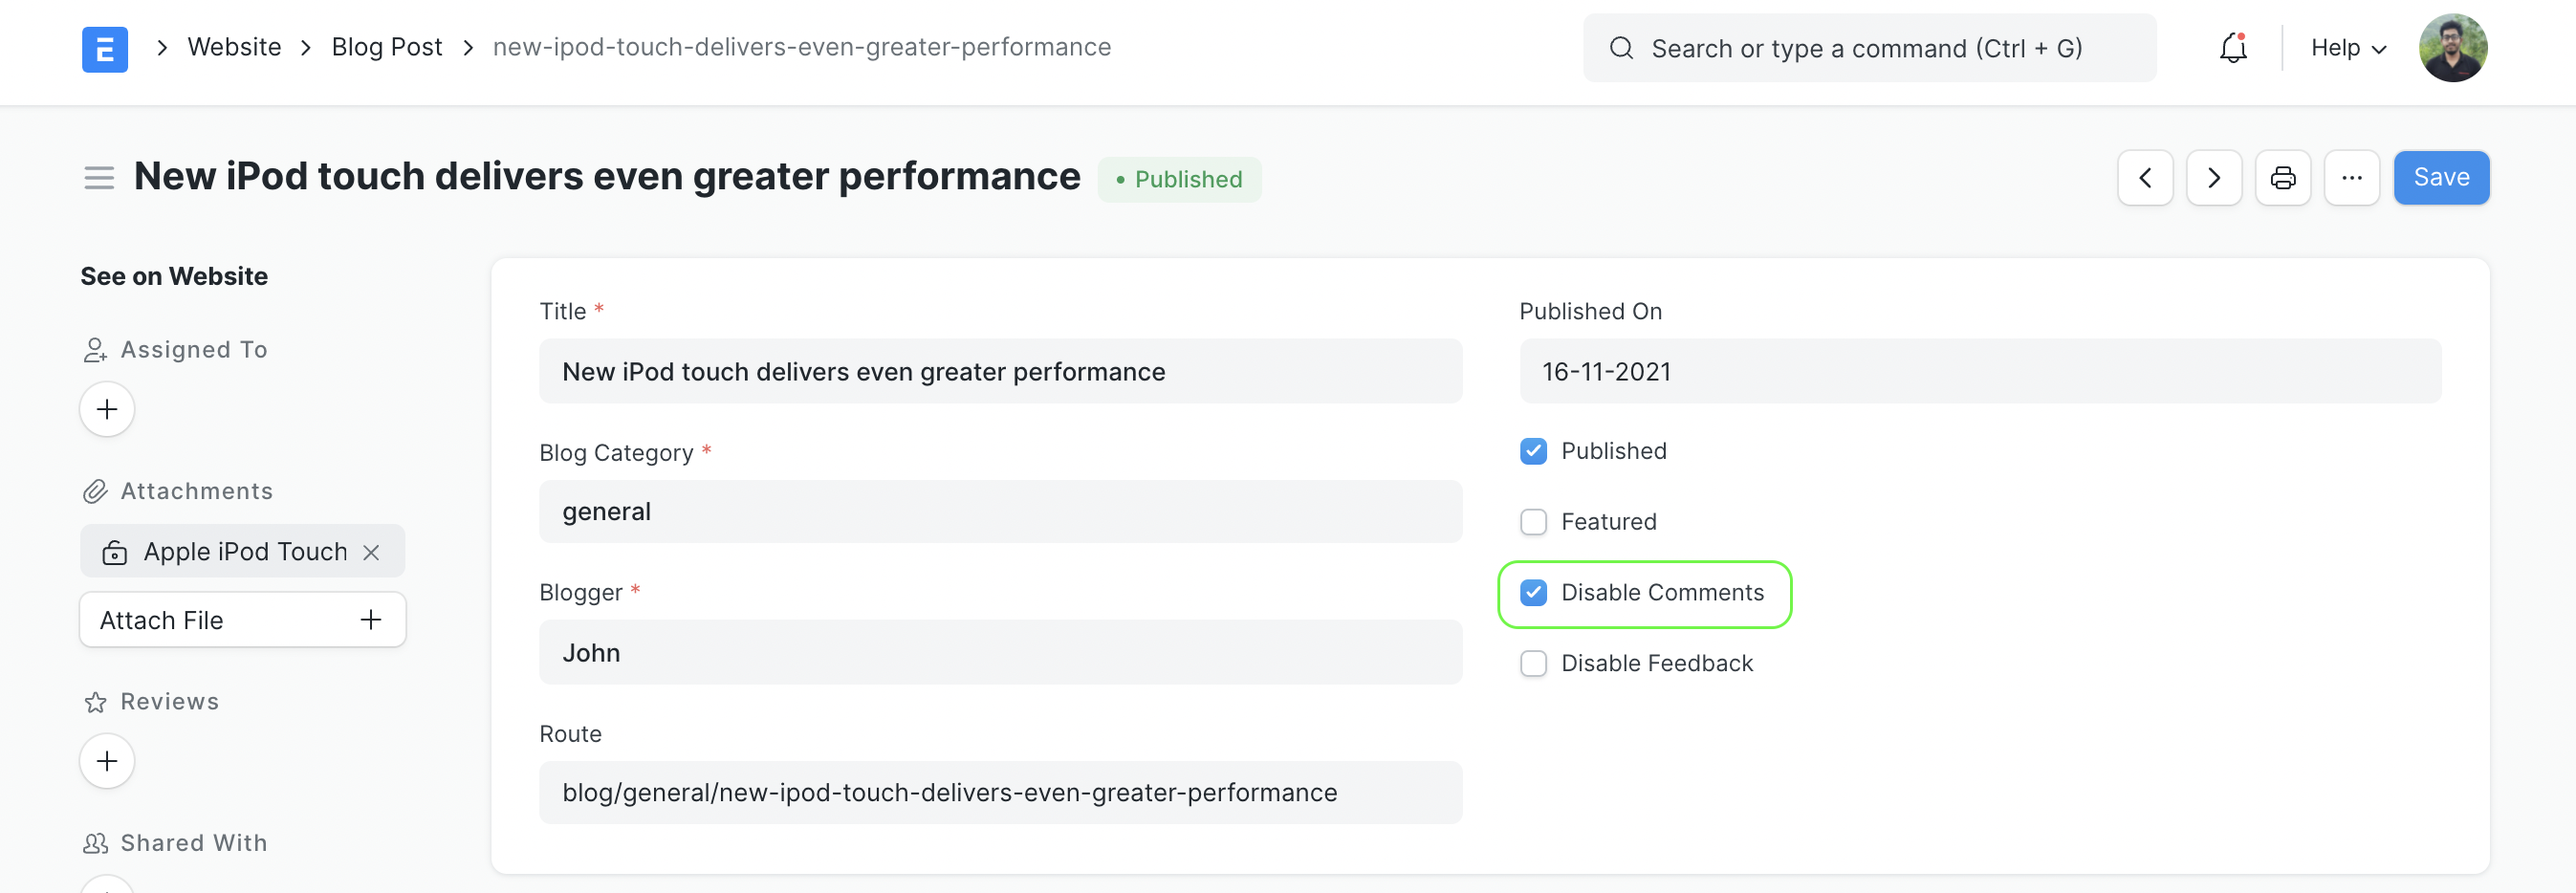
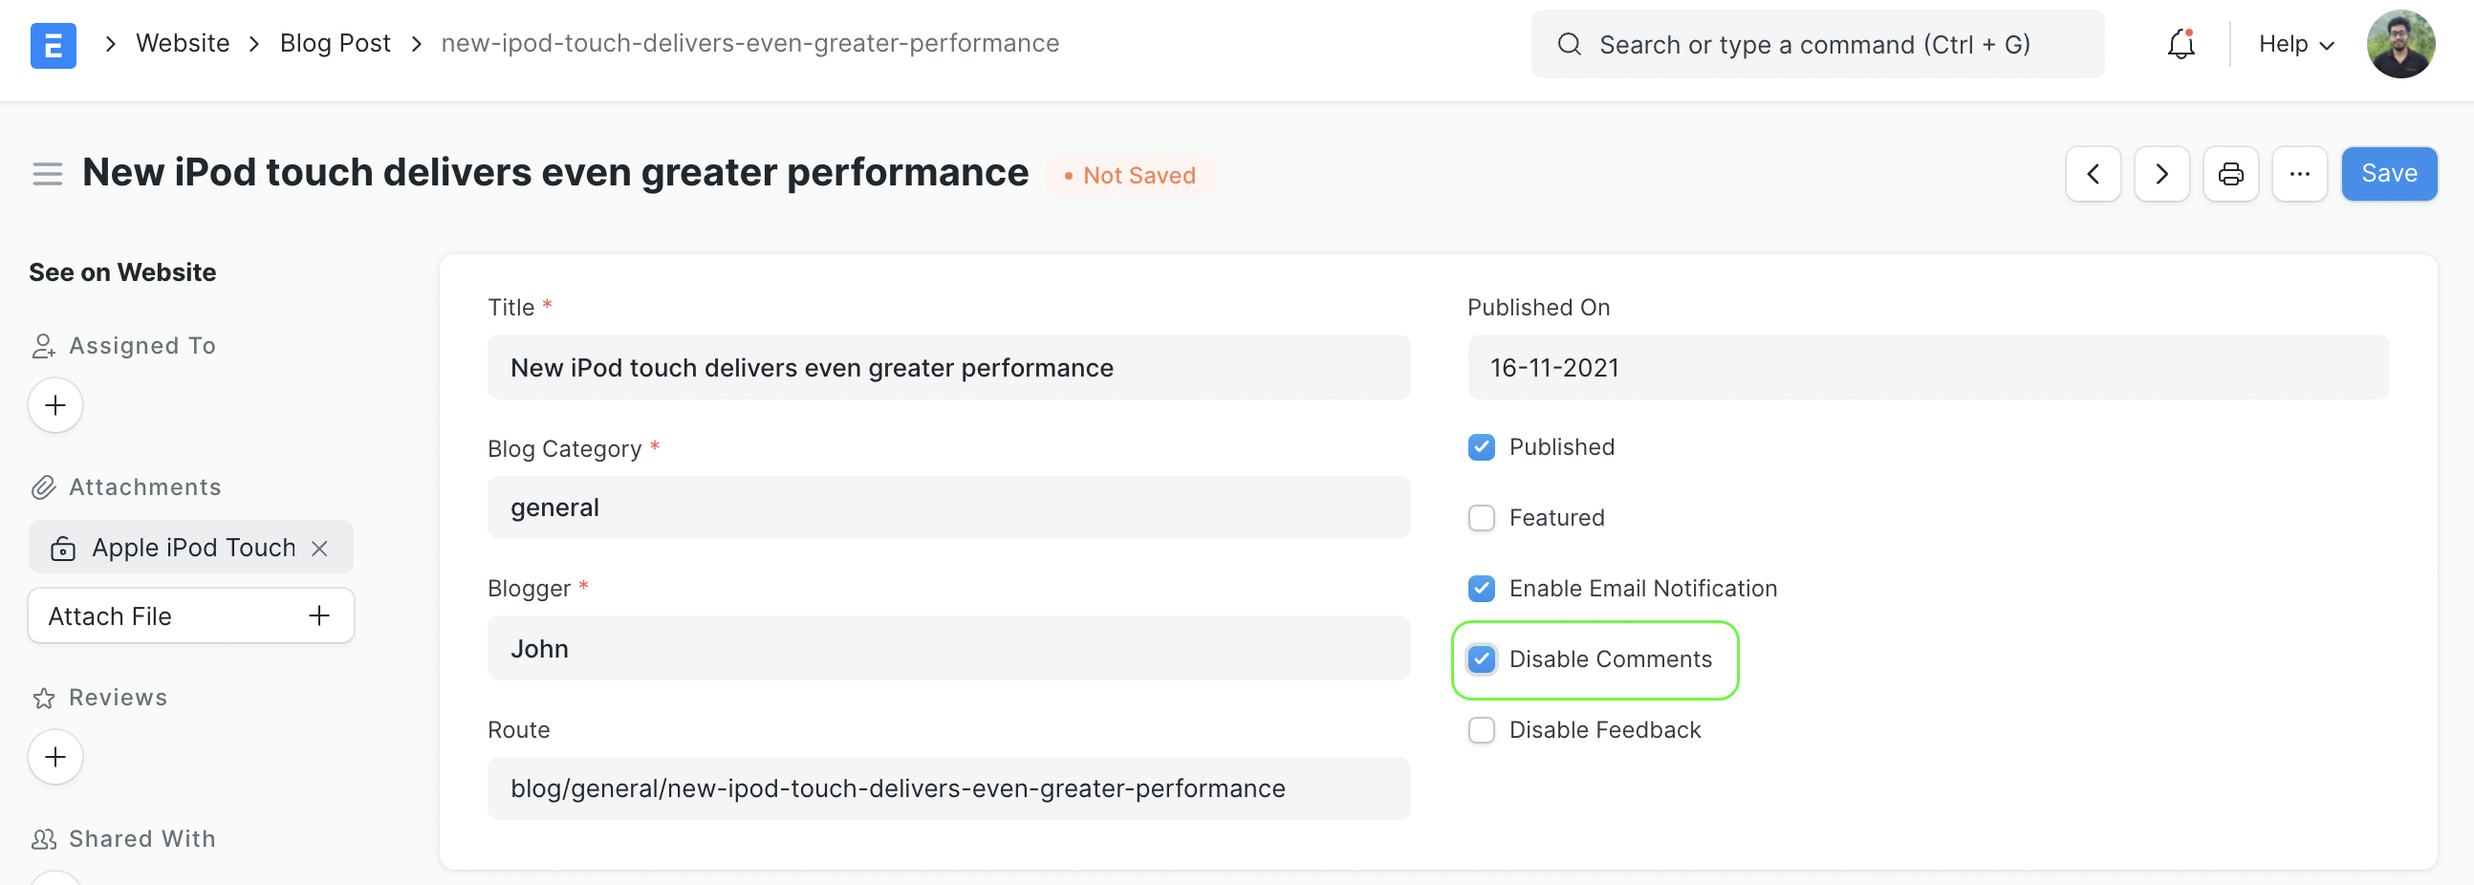
docs: Updated docs for email notification flag in blog post document

diff --git a/frappe_docs/www/docs/user/en/blog-post.md b/frappe_docs/www/docs/user/en/blog-post.md
@@ -64,6 +64,9 @@ Check the **Disable Feedback** option if you'd like to disable the ability for r
 ![Blog Post](/docs/assets/img/website/blog-post-disable-feedback.png)
 ![Blog Post](/docs/assets/img/website/blog-post-no-feedback.png)
 
+When a reader likes or comments on any blog post, an email is sent to the owner of that blog post. You can enable-disable email notifications from **Blog Post** documents.
+![Blog Post](/docs/assets/img/website/blog-post-enable-email-notification.png)
+
 ## 2. Features
 
 ### 2.1 Blogger
